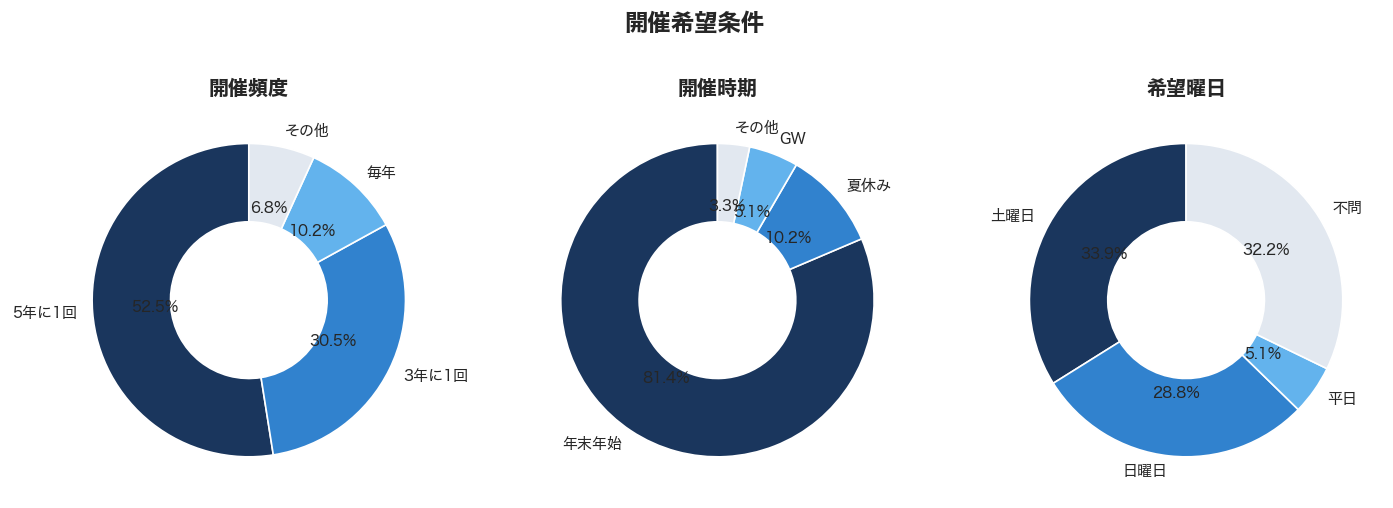
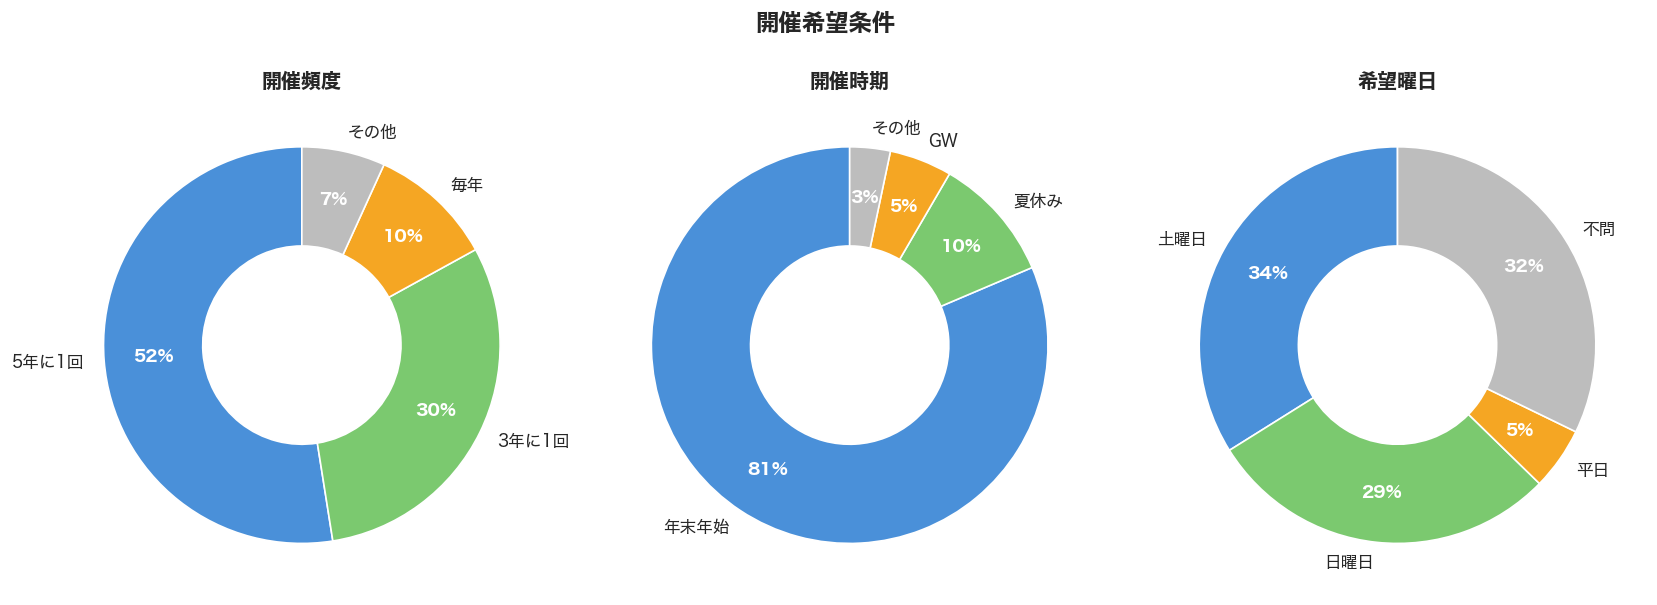
fix: 開催希望条件グラフの色とテキストの視認性を改善
- 色を明るく区別しやすいパレットに変更（青、緑、オレンジ、グレー）
- パーセンテージテキストを白色太字に変更
- グラフサイズを拡大して見やすく

diff --git a/generate_charts.py b/generate_charts.py
@@ -1041,33 +1041,48 @@ def chart_revenue_waterfall():
 # ===========================================
 def chart_opening_conditions():
     """開催希望条件のドーナツチャート"""
-    fig, axes = plt.subplots(1, 3, figsize=(12, 4))
+    fig, axes = plt.subplots(1, 3, figsize=(14, 5))
+
+    # 色を明るめに変更して視認性を向上
+    chart_colors = ['#4A90D9', '#7BC96F', '#F5A623', '#BDBDBD']
 
     # 開催頻度
     freq_labels = ['5年に1回', '3年に1回', '毎年', 'その他']
     freq_sizes = [52.5, 30.5, 10.2, 6.8]
-    axes[0].pie(freq_sizes, labels=freq_labels, autopct='%1.1f%%', startangle=90,
-                colors=[COLORS['primary'], COLORS['secondary'], '#63B3ED', COLORS['light_gray']],
-                wedgeprops=dict(width=0.5, edgecolor='white'), textprops={'fontsize': 9})
+    wedges0, texts0, autotexts0 = axes[0].pie(
+        freq_sizes, labels=freq_labels, autopct='%1.0f%%', startangle=90,
+        colors=chart_colors, wedgeprops=dict(width=0.5, edgecolor='white'),
+        textprops={'fontsize': 10}, pctdistance=0.75)
+    for autotext in autotexts0:
+        autotext.set_color('white')
+        autotext.set_fontweight('bold')
     axes[0].set_title('開催頻度', fontsize=12, fontweight='bold')
 
     # 開催時期
     time_labels = ['年末年始', '夏休み', 'GW', 'その他']
     time_sizes = [81.4, 10.2, 5.1, 3.3]
-    axes[1].pie(time_sizes, labels=time_labels, autopct='%1.1f%%', startangle=90,
-                colors=[COLORS['primary'], COLORS['secondary'], '#63B3ED', COLORS['light_gray']],
-                wedgeprops=dict(width=0.5, edgecolor='white'), textprops={'fontsize': 9})
+    wedges1, texts1, autotexts1 = axes[1].pie(
+        time_sizes, labels=time_labels, autopct='%1.0f%%', startangle=90,
+        colors=chart_colors, wedgeprops=dict(width=0.5, edgecolor='white'),
+        textprops={'fontsize': 10}, pctdistance=0.75)
+    for autotext in autotexts1:
+        autotext.set_color('white')
+        autotext.set_fontweight('bold')
     axes[1].set_title('開催時期', fontsize=12, fontweight='bold')
 
     # 曜日
     day_labels = ['土曜日', '日曜日', '平日', '不問']
     day_sizes = [33.9, 28.8, 5.1, 32.2]
-    axes[2].pie(day_sizes, labels=day_labels, autopct='%1.1f%%', startangle=90,
-                colors=[COLORS['primary'], COLORS['secondary'], '#63B3ED', COLORS['light_gray']],
-                wedgeprops=dict(width=0.5, edgecolor='white'), textprops={'fontsize': 9})
+    wedges2, texts2, autotexts2 = axes[2].pie(
+        day_sizes, labels=day_labels, autopct='%1.0f%%', startangle=90,
+        colors=chart_colors, wedgeprops=dict(width=0.5, edgecolor='white'),
+        textprops={'fontsize': 10}, pctdistance=0.75)
+    for autotext in autotexts2:
+        autotext.set_color('white')
+        autotext.set_fontweight('bold')
     axes[2].set_title('希望曜日', fontsize=12, fontweight='bold')
 
-    fig.suptitle('開催希望条件', fontsize=14, fontweight='bold', y=1.05)
+    fig.suptitle('開催希望条件', fontsize=14, fontweight='bold', y=1.02)
     plt.tight_layout()
 
     save_figure(fig, 'opening_conditions.png')
